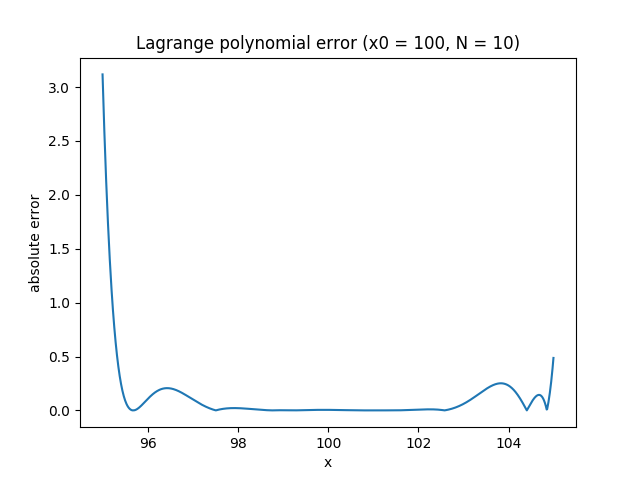
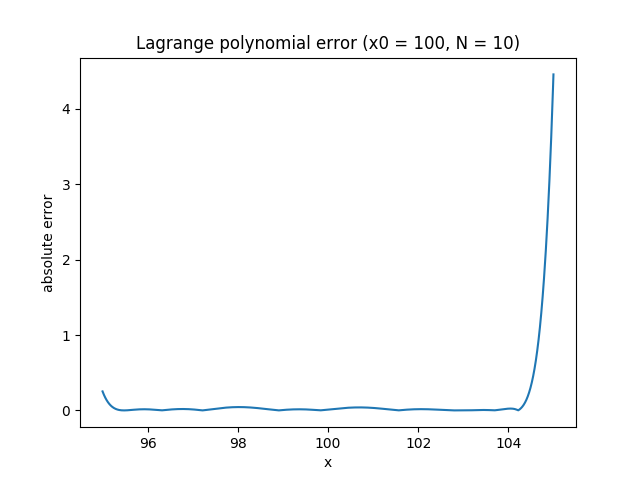
task01b implemented

diff --git a/hw02/task01a.py b/hw02/task01a.py
@@ -2,6 +2,8 @@ import numpy as np
 import matplotlib.pyplot as plt
 import os
 
+eps = 1e-5
+
 
 def get_lagrange_polynomial_basis(points, substitution_point):
     """
@@ -35,6 +37,7 @@ def get_lagrange_polynomial_value(table, substitution_point):
     :param substitution_point: point to in the polynomial.
     :return: substitution result.
     """
+
     coeffs = get_lagrange_polynomial_basis([point for point, _ in table], substitution_point)
     result = np.longdouble(0)
     for ind, (_, value) in enumerate(table):
@@ -50,6 +53,7 @@ def generate_uniform_distribution(lower, upper, number_of_values):
     :param number_of_values: number of values to generate
     :return: np.array of generated values.
     """
+
     return np.longdouble(np.array(list(np.random.uniform(lower, upper, number_of_values))))
 
 
@@ -63,6 +67,37 @@ def get_function_value(x):
     return x * (np.sin(x))
 
 
+def get_max_absolute_error(table, lower, upper, number_of_points=100000):
+    """
+    Function which calculates the largest absolute error i.e. abs(Lagrange polynomial - function value)
+    :param table: list of pairs (point, value) to perform the interpolation. All the points must be different.
+    :param lower: the smallest value of the research segment.
+    :param upper: the greatest value of the research segment.
+    :param number_of_points: number of points to get values.
+    :return: the greatest absolute error of the research segment.
+    """
+
+    step = np.longdouble((upper - lower) / number_of_points)
+    points = np.arange(lower, upper + eps, step)
+    max_error = -1
+    for point in points:
+        max_error = max(max_error, np.abs(get_lagrange_polynomial_value(table, point) - get_function_value(point)))
+    return max_error
+
+
+def generate_values_table(x0, N, func=get_function_value):
+    """
+    Generates list of pairs (point, value) to perform the interpolation. All the points must be different.
+    :param func: base function.
+    :param x0: knot center.
+    :param N: polynomial degree.
+    :return: list of pairs (point, value).
+    """
+
+    points = generate_uniform_distribution(x0 - 5, x0 + 5 + eps, N + 1)
+    return [(point, func(point)) for point in points]
+
+
 def build_error_plot(x0, N, plot_name=None, filename=None, points_number=1000):
     """
     Builds absolute error plot (abs(Lagrange polynomial value - function value)).
@@ -73,14 +108,14 @@ def build_error_plot(x0, N, plot_name=None, filename=None, points_number=1000):
     :param points_number: number of points to build.
     :return: nothing.
     """
+
     if plot_name is None:
         plot_name = 'Lagrange polynomial error (x0 = {x0}, N = {N})'.format(x0=x0, N=N)
     if filename is None:
         filename = 'lagrange_polynomial_error_plot_{x0}_{N}'.format(x0=x0, N=N)
-    points = generate_uniform_distribution(x0 - 5, x0 + 5, N + 1)
+    points = generate_uniform_distribution(x0 - 5, x0 + 5 + eps, N + 1)
     table = [(point, get_function_value(point)) for point in points]
-
-    xs = np.arange(x0 - 5, x0 + 5, 10.0 / points_number)
+    xs = np.arange(x0 - 5, x0 + 5 + eps, 10.0 / points_number)
     ys = [np.abs(get_lagrange_polynomial_value(table, x) - get_function_value(x)) for x in xs]
 
     plt.clf()
@@ -89,6 +124,10 @@ def build_error_plot(x0, N, plot_name=None, filename=None, points_number=1000):
     plt.ylabel('absolute error')
     plt.title(plot_name)
     plt.savefig(os.path.join('plots', filename))
+
+    print('N = {N}, x0 = {x0}, max error = {error}'.format(N=N,
+                                                           x0=x0,
+                                                           error=get_max_absolute_error(table, x0 - 5, x0 + 5)))
 
 
 if __name__ == '__main__':

diff --git a/hw02/task01b.py b/hw02/task01b.py
@@ -1,0 +1,31 @@
+import matplotlib.pyplot as plt
+import os
+
+from hw02.task01a import get_max_absolute_error, generate_values_table
+
+
+if __name__ == '__main__':
+    xs = range(5, 51)
+    for x0 in [100]:
+        ys = []
+        for N in range(5, 51):
+            table = generate_values_table(x0, N)
+            ys.append(get_max_absolute_error(table, x0 - 5, x0 + 5, 1000))
+        plt.clf()
+        plt.plot(xs, ys)
+        plt.ylabel('max absolute error')
+        plt.xlabel('N')
+        plt.title('Dependency of max absolute error, x0 = {x0}, 5 <= N <= 50'.format(x0=x0))
+        plt.savefig(os.path.join('plots', 'task01b'))
+
+        ys = []
+        for N in range(5, 41):
+            table = generate_values_table(x0, N)
+            ys.append(get_max_absolute_error(table, x0 - 5, x0 + 5, 1000))
+        plt.clf()
+        plt.plot(range(5, 41), ys)
+        plt.ylabel('max absolute error')
+        plt.xlabel('N')
+        plt.title('Dependency of max absolute error, x0 = {x0}, 5 <= N <= 50'.format(x0=x0))
+        plt.savefig(os.path.join('plots', 'task01b_cut'))
+
